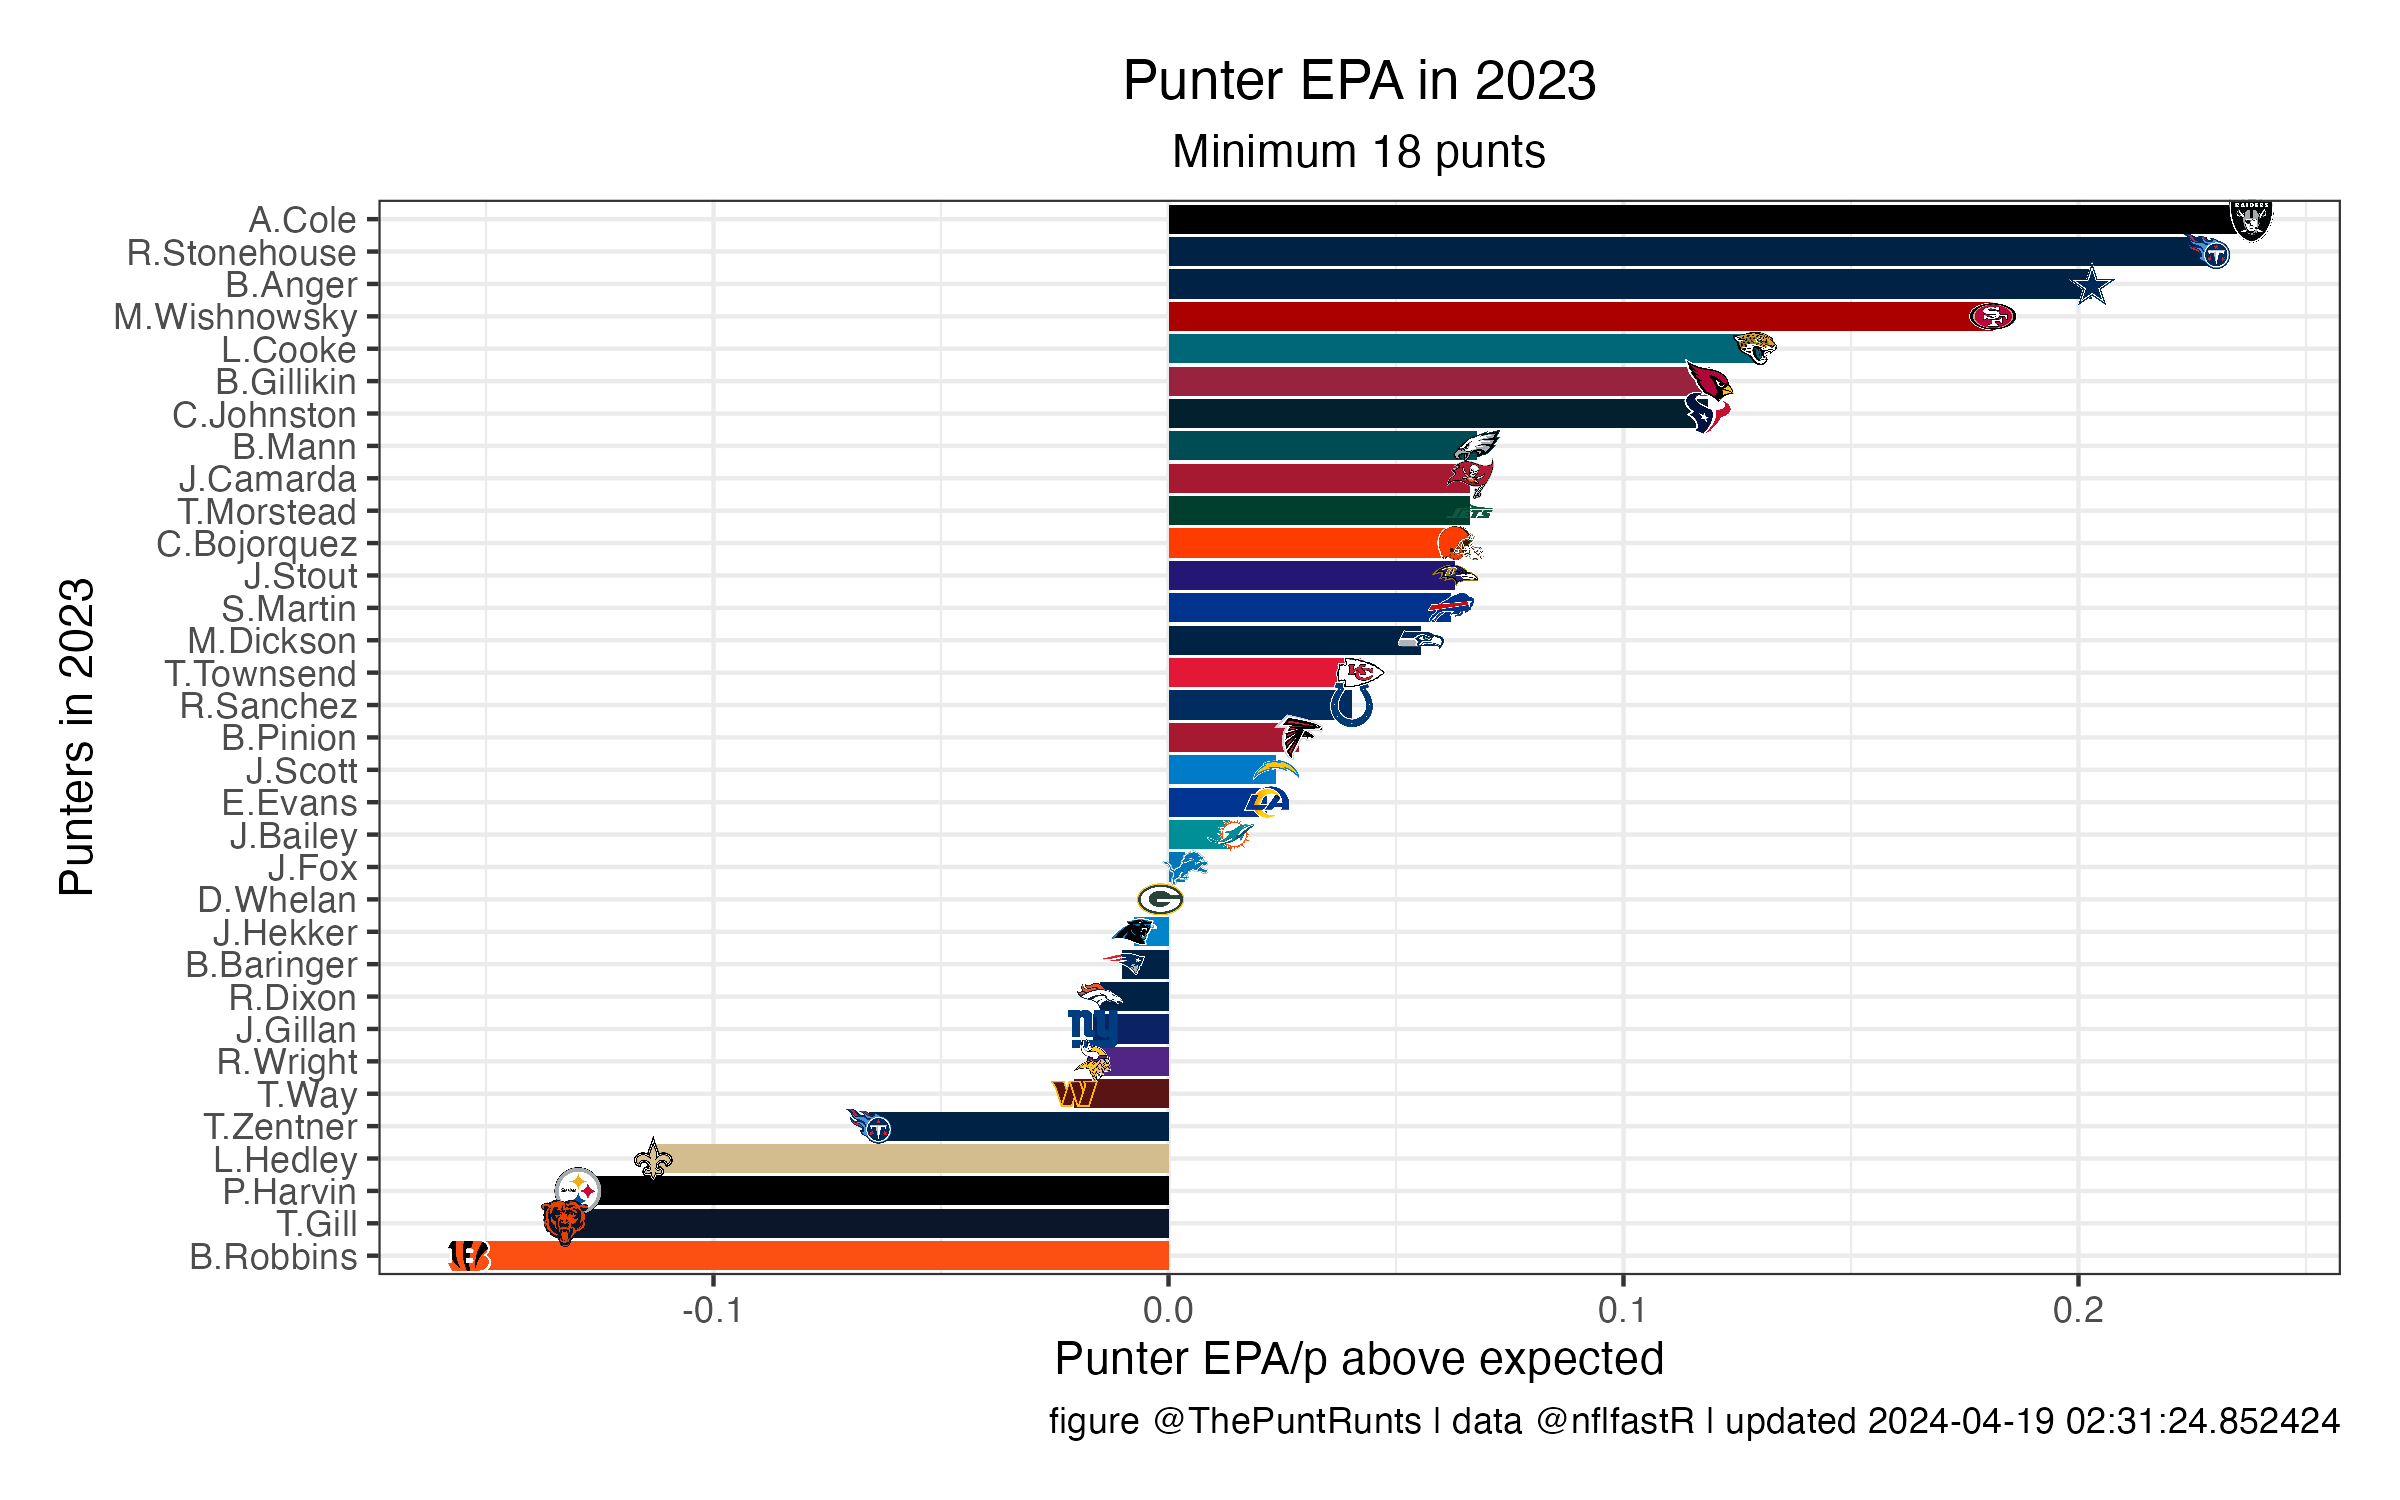
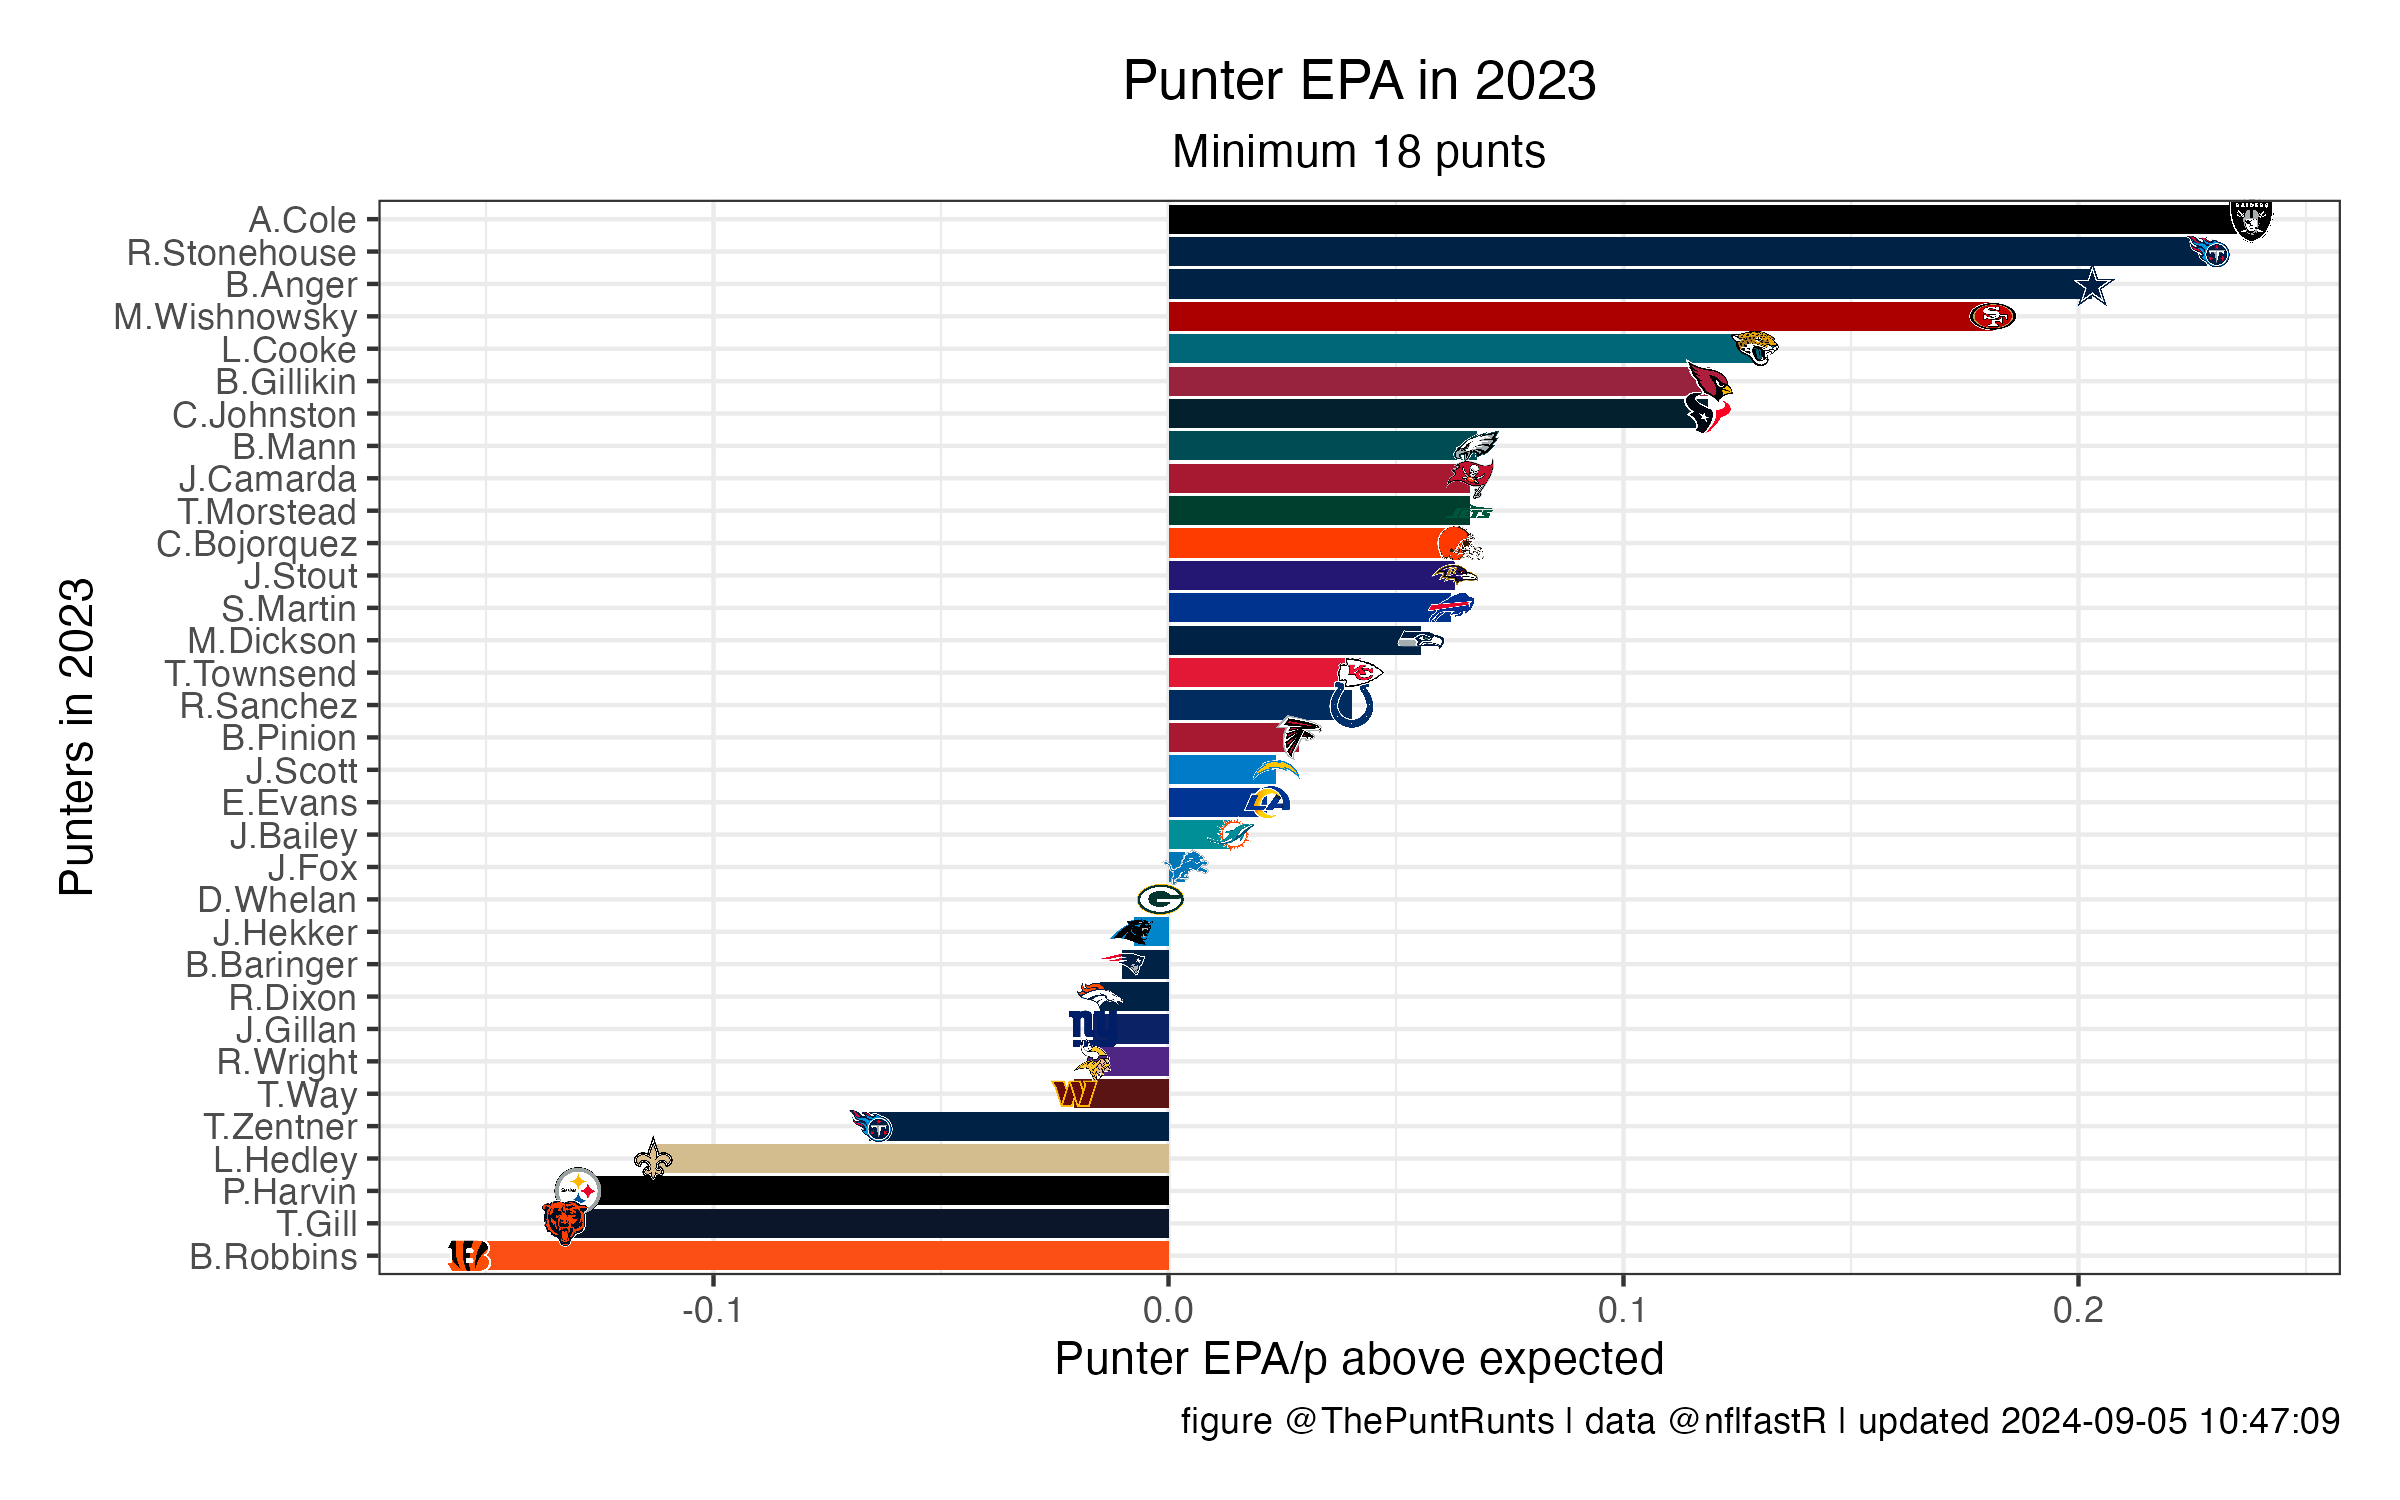
Update latest table

diff --git a/tables/latest.html b/tables/latest.html
@@ -5,23 +5,23 @@
 
 </head>
 <body>
-<div id="xlkpanztqf" style="padding-left:0px;padding-right:0px;padding-top:10px;padding-bottom:10px;overflow-x:auto;overflow-y:auto;width:auto;height:auto;">
-  <style>#xlkpanztqf table {
+<div id="igjjzfgvzu" style="padding-left:0px;padding-right:0px;padding-top:10px;padding-bottom:10px;overflow-x:auto;overflow-y:auto;width:auto;height:auto;">
+  <style>#igjjzfgvzu table {
   font-family: system-ui, 'Segoe UI', Roboto, Helvetica, Arial, sans-serif, 'Apple Color Emoji', 'Segoe UI Emoji', 'Segoe UI Symbol', 'Noto Color Emoji';
   -webkit-font-smoothing: antialiased;
   -moz-osx-font-smoothing: grayscale;
 }
 
-#xlkpanztqf thead, #xlkpanztqf tbody, #xlkpanztqf tfoot, #xlkpanztqf tr, #xlkpanztqf td, #xlkpanztqf th {
+#igjjzfgvzu thead, #igjjzfgvzu tbody, #igjjzfgvzu tfoot, #igjjzfgvzu tr, #igjjzfgvzu td, #igjjzfgvzu th {
   border-style: none;
 }
 
-#xlkpanztqf p {
+#igjjzfgvzu p {
   margin: 0;
   padding: 0;
 }
 
-#xlkpanztqf .gt_table {
+#igjjzfgvzu .gt_table {
   display: table;
   border-collapse: collapse;
   line-height: normal;
@@ -47,12 +47,12 @@
   border-left-color: #D3D3D3;
 }
 
-#xlkpanztqf .gt_caption {
+#igjjzfgvzu .gt_caption {
   padding-top: 4px;
   padding-bottom: 4px;
 }
 
-#xlkpanztqf .gt_title {
+#igjjzfgvzu .gt_title {
   color: #333333;
   font-size: 125%;
   font-weight: initial;
@@ -64,7 +64,7 @@
   border-bottom-width: 0;
 }
 
-#xlkpanztqf .gt_subtitle {
+#igjjzfgvzu .gt_subtitle {
   color: #333333;
   font-size: 85%;
   font-weight: initial;
@@ -76,7 +76,7 @@
   border-top-width: 0;
 }
 
-#xlkpanztqf .gt_heading {
+#igjjzfgvzu .gt_heading {
   background-color: #FFFFFF;
   text-align: center;
   border-bottom-color: #FFFFFF;
@@ -88,13 +88,13 @@
   border-right-color: #D3D3D3;
 }
 
-#xlkpanztqf .gt_bottom_border {
+#igjjzfgvzu .gt_bottom_border {
   border-bottom-style: solid;
   border-bottom-width: 2px;
   border-bottom-color: #D3D3D3;
 }
 
-#xlkpanztqf .gt_col_headings {
+#igjjzfgvzu .gt_col_headings {
   border-top-style: solid;
   border-top-width: 2px;
   border-top-color: #D3D3D3;
@@ -109,7 +109,7 @@
   border-right-color: #D3D3D3;
 }
 
-#xlkpanztqf .gt_col_heading {
+#igjjzfgvzu .gt_col_heading {
   color: #333333;
   background-color: #FFFFFF;
   font-size: 100%;
@@ -129,7 +129,7 @@
   overflow-x: hidden;
 }
 
-#xlkpanztqf .gt_column_spanner_outer {
+#igjjzfgvzu .gt_column_spanner_outer {
   color: #333333;
   background-color: #FFFFFF;
   font-size: 100%;
@@ -141,15 +141,15 @@
   padding-right: 4px;
 }
 
-#xlkpanztqf .gt_column_spanner_outer:first-child {
+#igjjzfgvzu .gt_column_spanner_outer:first-child {
   padding-left: 0;
 }
 
-#xlkpanztqf .gt_column_spanner_outer:last-child {
+#igjjzfgvzu .gt_column_spanner_outer:last-child {
   padding-right: 0;
 }
 
-#xlkpanztqf .gt_column_spanner {
+#igjjzfgvzu .gt_column_spanner {
   border-bottom-style: solid;
   border-bottom-width: 2px;
   border-bottom-color: #D3D3D3;
@@ -161,11 +161,11 @@
   width: 100%;
 }
 
-#xlkpanztqf .gt_spanner_row {
+#igjjzfgvzu .gt_spanner_row {
   border-bottom-style: hidden;
 }
 
-#xlkpanztqf .gt_group_heading {
+#igjjzfgvzu .gt_group_heading {
   padding-top: 8px;
   padding-bottom: 8px;
   padding-left: 5px;
@@ -191,7 +191,7 @@
   text-align: left;
 }
 
-#xlkpanztqf .gt_empty_group_heading {
+#igjjzfgvzu .gt_empty_group_heading {
   padding: 0.5px;
   color: #333333;
   background-color: #FFFFFF;
@@ -206,15 +206,15 @@
   vertical-align: middle;
 }
 
-#xlkpanztqf .gt_from_md > :first-child {
+#igjjzfgvzu .gt_from_md > :first-child {
   margin-top: 0;
 }
 
-#xlkpanztqf .gt_from_md > :last-child {
+#igjjzfgvzu .gt_from_md > :last-child {
   margin-bottom: 0;
 }
 
-#xlkpanztqf .gt_row {
+#igjjzfgvzu .gt_row {
   padding-top: 8px;
   padding-bottom: 8px;
   padding-left: 5px;
@@ -233,7 +233,7 @@
   overflow-x: hidden;
 }
 
-#xlkpanztqf .gt_stub {
+#igjjzfgvzu .gt_stub {
   color: #333333;
   background-color: #FFFFFF;
   font-size: 100%;
@@ -246,7 +246,7 @@
   padding-right: 5px;
 }
 
-#xlkpanztqf .gt_stub_row_group {
+#igjjzfgvzu .gt_stub_row_group {
   color: #333333;
   background-color: #FFFFFF;
   font-size: 100%;
@@ -260,15 +260,15 @@
   vertical-align: top;
 }
 
-#xlkpanztqf .gt_row_group_first td {
+#igjjzfgvzu .gt_row_group_first td {
   border-top-width: 2px;
 }
 
-#xlkpanztqf .gt_row_group_first th {
+#igjjzfgvzu .gt_row_group_first th {
   border-top-width: 2px;
 }
 
-#xlkpanztqf .gt_summary_row {
+#igjjzfgvzu .gt_summary_row {
   color: #333333;
   background-color: #FFFFFF;
   text-transform: inherit;
@@ -278,16 +278,16 @@
   padding-right: 5px;
 }
 
-#xlkpanztqf .gt_first_summary_row {
+#igjjzfgvzu .gt_first_summary_row {
   border-top-style: solid;
   border-top-color: #D3D3D3;
 }
 
-#xlkpanztqf .gt_first_summary_row.thick {
+#igjjzfgvzu .gt_first_summary_row.thick {
   border-top-width: 2px;
 }
 
-#xlkpanztqf .gt_last_summary_row {
+#igjjzfgvzu .gt_last_summary_row {
   padding-top: 8px;
   padding-bottom: 8px;
   padding-left: 5px;
@@ -297,7 +297,7 @@
   border-bottom-color: #D3D3D3;
 }
 
-#xlkpanztqf .gt_grand_summary_row {
+#igjjzfgvzu .gt_grand_summary_row {
   color: #333333;
   background-color: #FFFFFF;
   text-transform: inherit;
@@ -307,7 +307,7 @@
   padding-right: 5px;
 }
 
-#xlkpanztqf .gt_first_grand_summary_row {
+#igjjzfgvzu .gt_first_grand_summary_row {
   padding-top: 8px;
   padding-bottom: 8px;
   padding-left: 5px;
@@ -317,7 +317,7 @@
   border-top-color: #D3D3D3;
 }
 
-#xlkpanztqf .gt_last_grand_summary_row_top {
+#igjjzfgvzu .gt_last_grand_summary_row_top {
   padding-top: 8px;
   padding-bottom: 8px;
   padding-left: 5px;
@@ -327,11 +327,11 @@
   border-bottom-color: #D3D3D3;
 }
 
-#xlkpanztqf .gt_striped {
+#igjjzfgvzu .gt_striped {
   background-color: rgba(128, 128, 128, 0.05);
 }
 
-#xlkpanztqf .gt_table_body {
+#igjjzfgvzu .gt_table_body {
   border-top-style: solid;
   border-top-width: 2px;
   border-top-color: #D3D3D3;
@@ -340,7 +340,7 @@
   border-bottom-color: #D3D3D3;
 }
 
-#xlkpanztqf .gt_footnotes {
+#igjjzfgvzu .gt_footnotes {
   color: #333333;
   background-color: #FFFFFF;
   border-bottom-style: none;
@@ -354,7 +354,7 @@
   border-right-color: #D3D3D3;
 }
 
-#xlkpanztqf .gt_footnote {
+#igjjzfgvzu .gt_footnote {
   margin: 0px;
   font-size: 90%;
   padding-top: 4px;
@@ -363,7 +363,7 @@
   padding-right: 5px;
 }
 
-#xlkpanztqf .gt_sourcenotes {
+#igjjzfgvzu .gt_sourcenotes {
   color: #333333;
   background-color: #FFFFFF;
   border-bottom-style: none;
@@ -377,7 +377,7 @@
   border-right-color: #D3D3D3;
 }
 
-#xlkpanztqf .gt_sourcenote {
+#igjjzfgvzu .gt_sourcenote {
   font-size: 90%;
   padding-top: 4px;
   padding-bottom: 4px;
@@ -385,64 +385,73 @@
   padding-right: 5px;
 }
 
-#xlkpanztqf .gt_left {
+#igjjzfgvzu .gt_left {
   text-align: left;
 }
 
-#xlkpanztqf .gt_center {
+#igjjzfgvzu .gt_center {
   text-align: center;
 }
 
-#xlkpanztqf .gt_right {
+#igjjzfgvzu .gt_right {
   text-align: right;
   font-variant-numeric: tabular-nums;
 }
 
-#xlkpanztqf .gt_font_normal {
+#igjjzfgvzu .gt_font_normal {
   font-weight: normal;
 }
 
-#xlkpanztqf .gt_font_bold {
+#igjjzfgvzu .gt_font_bold {
   font-weight: bold;
 }
 
-#xlkpanztqf .gt_font_italic {
+#igjjzfgvzu .gt_font_italic {
   font-style: italic;
 }
 
-#xlkpanztqf .gt_super {
+#igjjzfgvzu .gt_super {
   font-size: 65%;
 }
 
-#xlkpanztqf .gt_footnote_marks {
+#igjjzfgvzu .gt_footnote_marks {
   font-size: 75%;
   vertical-align: 0.4em;
   position: initial;
 }
 
-#xlkpanztqf .gt_asterisk {
+#igjjzfgvzu .gt_asterisk {
   font-size: 100%;
   vertical-align: 0;
 }
 
-#xlkpanztqf .gt_indent_1 {
+#igjjzfgvzu .gt_indent_1 {
   text-indent: 5px;
 }
 
-#xlkpanztqf .gt_indent_2 {
+#igjjzfgvzu .gt_indent_2 {
   text-indent: 10px;
 }
 
-#xlkpanztqf .gt_indent_3 {
+#igjjzfgvzu .gt_indent_3 {
   text-indent: 15px;
 }
 
-#xlkpanztqf .gt_indent_4 {
+#igjjzfgvzu .gt_indent_4 {
   text-indent: 20px;
 }
 
-#xlkpanztqf .gt_indent_5 {
+#igjjzfgvzu .gt_indent_5 {
   text-indent: 25px;
+}
+
+#igjjzfgvzu .katex-display {
+  display: inline-flex !important;
+  margin-bottom: 0.75em !important;
+}
+
+#igjjzfgvzu div.Reactable > div.rt-table > div.rt-thead > div.rt-tr.rt-tr-group-header > div.rt-th-group:after {
+  height: 0px !important;
 }
 </style>
   <table class="gt_table" data-quarto-disable-processing="false" data-quarto-bootstrap="false">
@@ -769,7 +778,7 @@
       <td class="gt_sourcenote" colspan="9">'OF and 'PD' are SHARP_RERUN scores for Open-field and pin-deep, respectively</td>
     </tr>
     <tr>
-      <td class="gt_sourcenote" colspan="9">Updated 2024-04-19 02:31:23.957904 eastern</td>
+      <td class="gt_sourcenote" colspan="9">Updated 2024-09-05 10:47:08 eastern</td>
     </tr>
   </tfoot>
   
